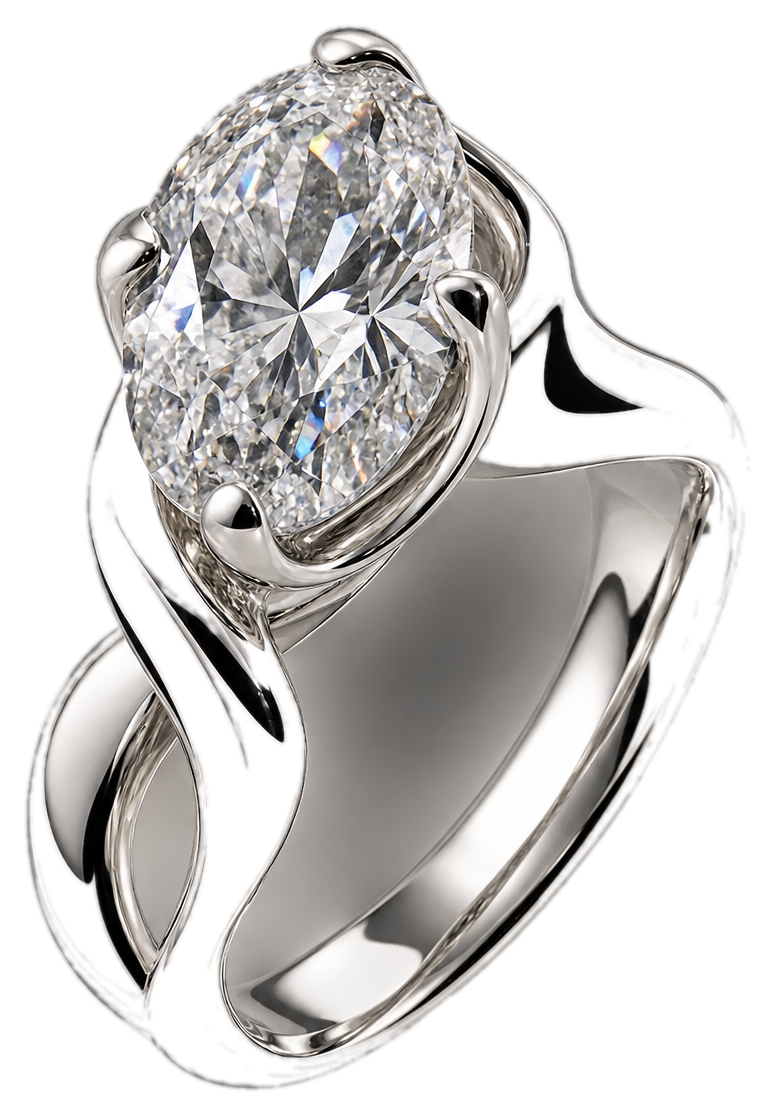
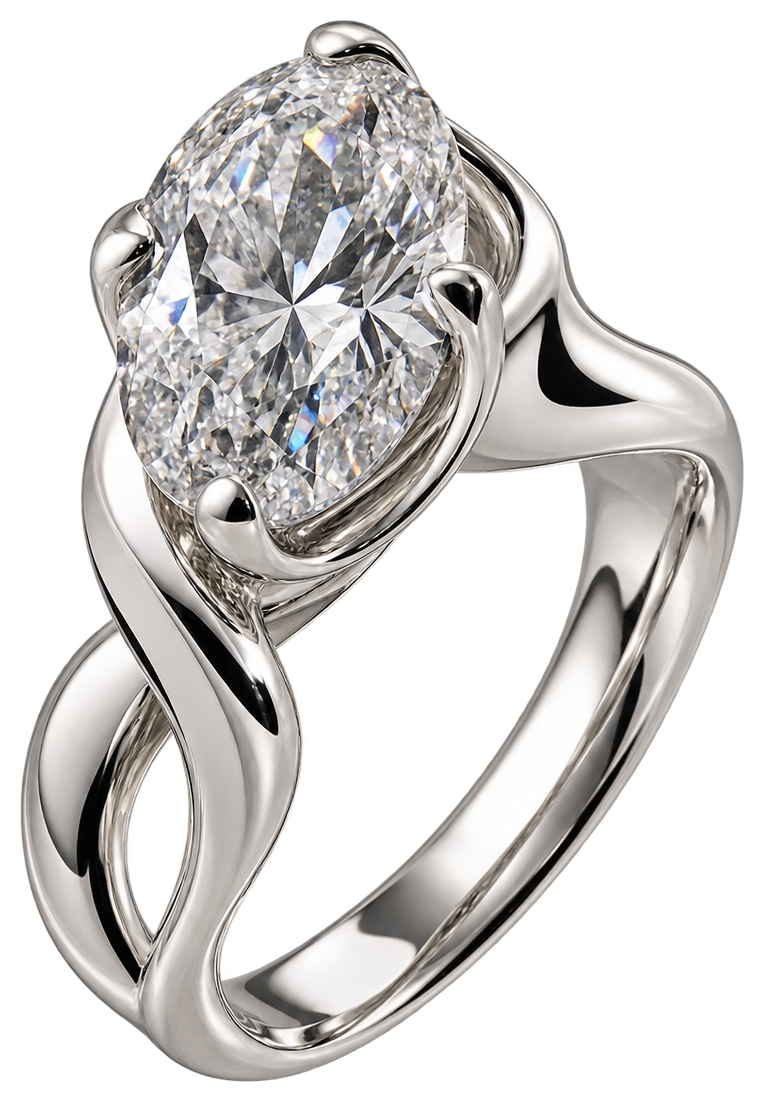
Corrigir a mancha cinzenta no anel do Hero
O ficheiro enviado (image_hero_ring.png) já vinha com o canal alfa correcto
— incluindo a abertura entre os aros entrelaçados devidamente transparente.
Não precisava de qualquer recorte.

Ignorei isso na sessão anterior: converti para RGB, descartei o alfa
original, e reconstruí um recorte por flood-fill sobre o vinheta já
achatado no RGB. Esse recorte tinha uma falha — um bolsão de fundo ficava
preso, sem ligação à borda pela tolerância usada, e sobrava opaco com a
sua cor cinzenta original. Era essa a mancha vista no site publicado.

A correcção é usar directamente o canal alfa que já vinha no ficheiro,
só enquadrado à peça — sem gerar nada. scripts/cutout_tolerance.py sai do
repositório: nasceu para resolver um problema que não existia.

Claude-Session: https://claude.ai/code/session_018yjFhTixwdjaqt8Mc5FuXx

diff --git a/components/sections/Hero.tsx b/components/sections/Hero.tsx
@@ -81,7 +81,7 @@ export function Hero() {
               transition={{ duration: 1.8, ease: EASE, delay: 0.5 }}
             >
               <motion.div style={reduced ? undefined : { scale: plateScale }}>
-                <div className="relative aspect-[776/1116] w-full">
+                <div className="relative aspect-[764/1102] w-full">
                   <Image
                     src="/images/hero-ring.png"
                     alt="Anel HERTMANN em ouro branco, com diamante central de talhe oval"

diff --git a/README.md b/README.md
@@ -66,7 +66,7 @@ de contacto, para assentarem sobre as superfícies brancas e cinzentas da marca.
 | `campaign-portrait.jpg` | Coleção em destaque |
 | `campaign-hero.jpg` | Página Sobre e imagem Open Graph |
 | `boutique-wide.jpg` / `boutique-tall.jpg` | Ateliê e página Sobre |
-| `hero-ring.png` | Objecto do Hero — o anel de assinatura, recortado sobre o vinheta original |
+| `hero-ring.png` | Objecto do Hero — o anel de assinatura, entregue já com canal alfa correto |
 
 ### Recortar uma fotografia nova
 
@@ -83,17 +83,28 @@ python3 scripts/cutout.py foto-original.png public/images/nome.png
 
 Se o fundo não for uniforme, `--inner` e `--outer` afinam os limiares da chave.
 
-Quando o fundo não é uma cor plana — um vinheta, um gradiente, um fundo com
-blobs de luz, como o da fotografia do anel no Hero — `cutout.py` deixa zonas
-por cortar. `scripts/cutout_tolerance.py` resolve isso de outra forma: em vez
-de comparar cada pixel a uma referência global, propaga-se a partir da borda
-comparando cada pixel ao vizinho já classificado como fundo. Segue qualquer
-gradiente, seja qual for a sua forma, e pára exactamente onde o salto de
-luminância é grande — a silhueta nítida da peça.
+**Antes de recortar uma imagem, verifique se ela já não vem com canal alfa.**
+Um PNG exportado de outro sítio pode já trazer a transparência certa — nesse
+caso `cutout.py` está a mais e, pior, pode introduzir defeitos que o ficheiro
+original não tinha (foi o que aconteceu com `hero-ring.png`: a fotografia
+enviada já vinha correctamente recortada, com a abertura entre os aros
+entrelaçados incluída; o utilitário só precisava de a cortar à medida):
 
 ```bash
-pip install pillow numpy
-python3 scripts/cutout_tolerance.py entrada.png public/images/saida.png
+python3 -c "from PIL import Image; im = Image.open('foto.png'); print(im.mode, im.getchannel('A').getextrema() if 'A' in im.mode else 'sem alfa')"
+```
+
+Se o modo for `RGBA` e os extremos do canal alfa cobrirem `0` e próximo de
+`255`, a imagem já está recortada — baste enquadrar:
+
+```bash
+python3 -c "
+from PIL import Image
+im = Image.open('foto.png')
+box = im.getchannel('A').point(lambda v: 255 if v > 8 else 0).getbbox()
+pad = 20
+im.crop((max(0,box[0]-pad), max(0,box[1]-pad), min(im.width,box[2]+pad), min(im.height,box[3]+pad))).save('public/images/nome.png')
+"
 ```
 
 ### As pranchas desenhadas
